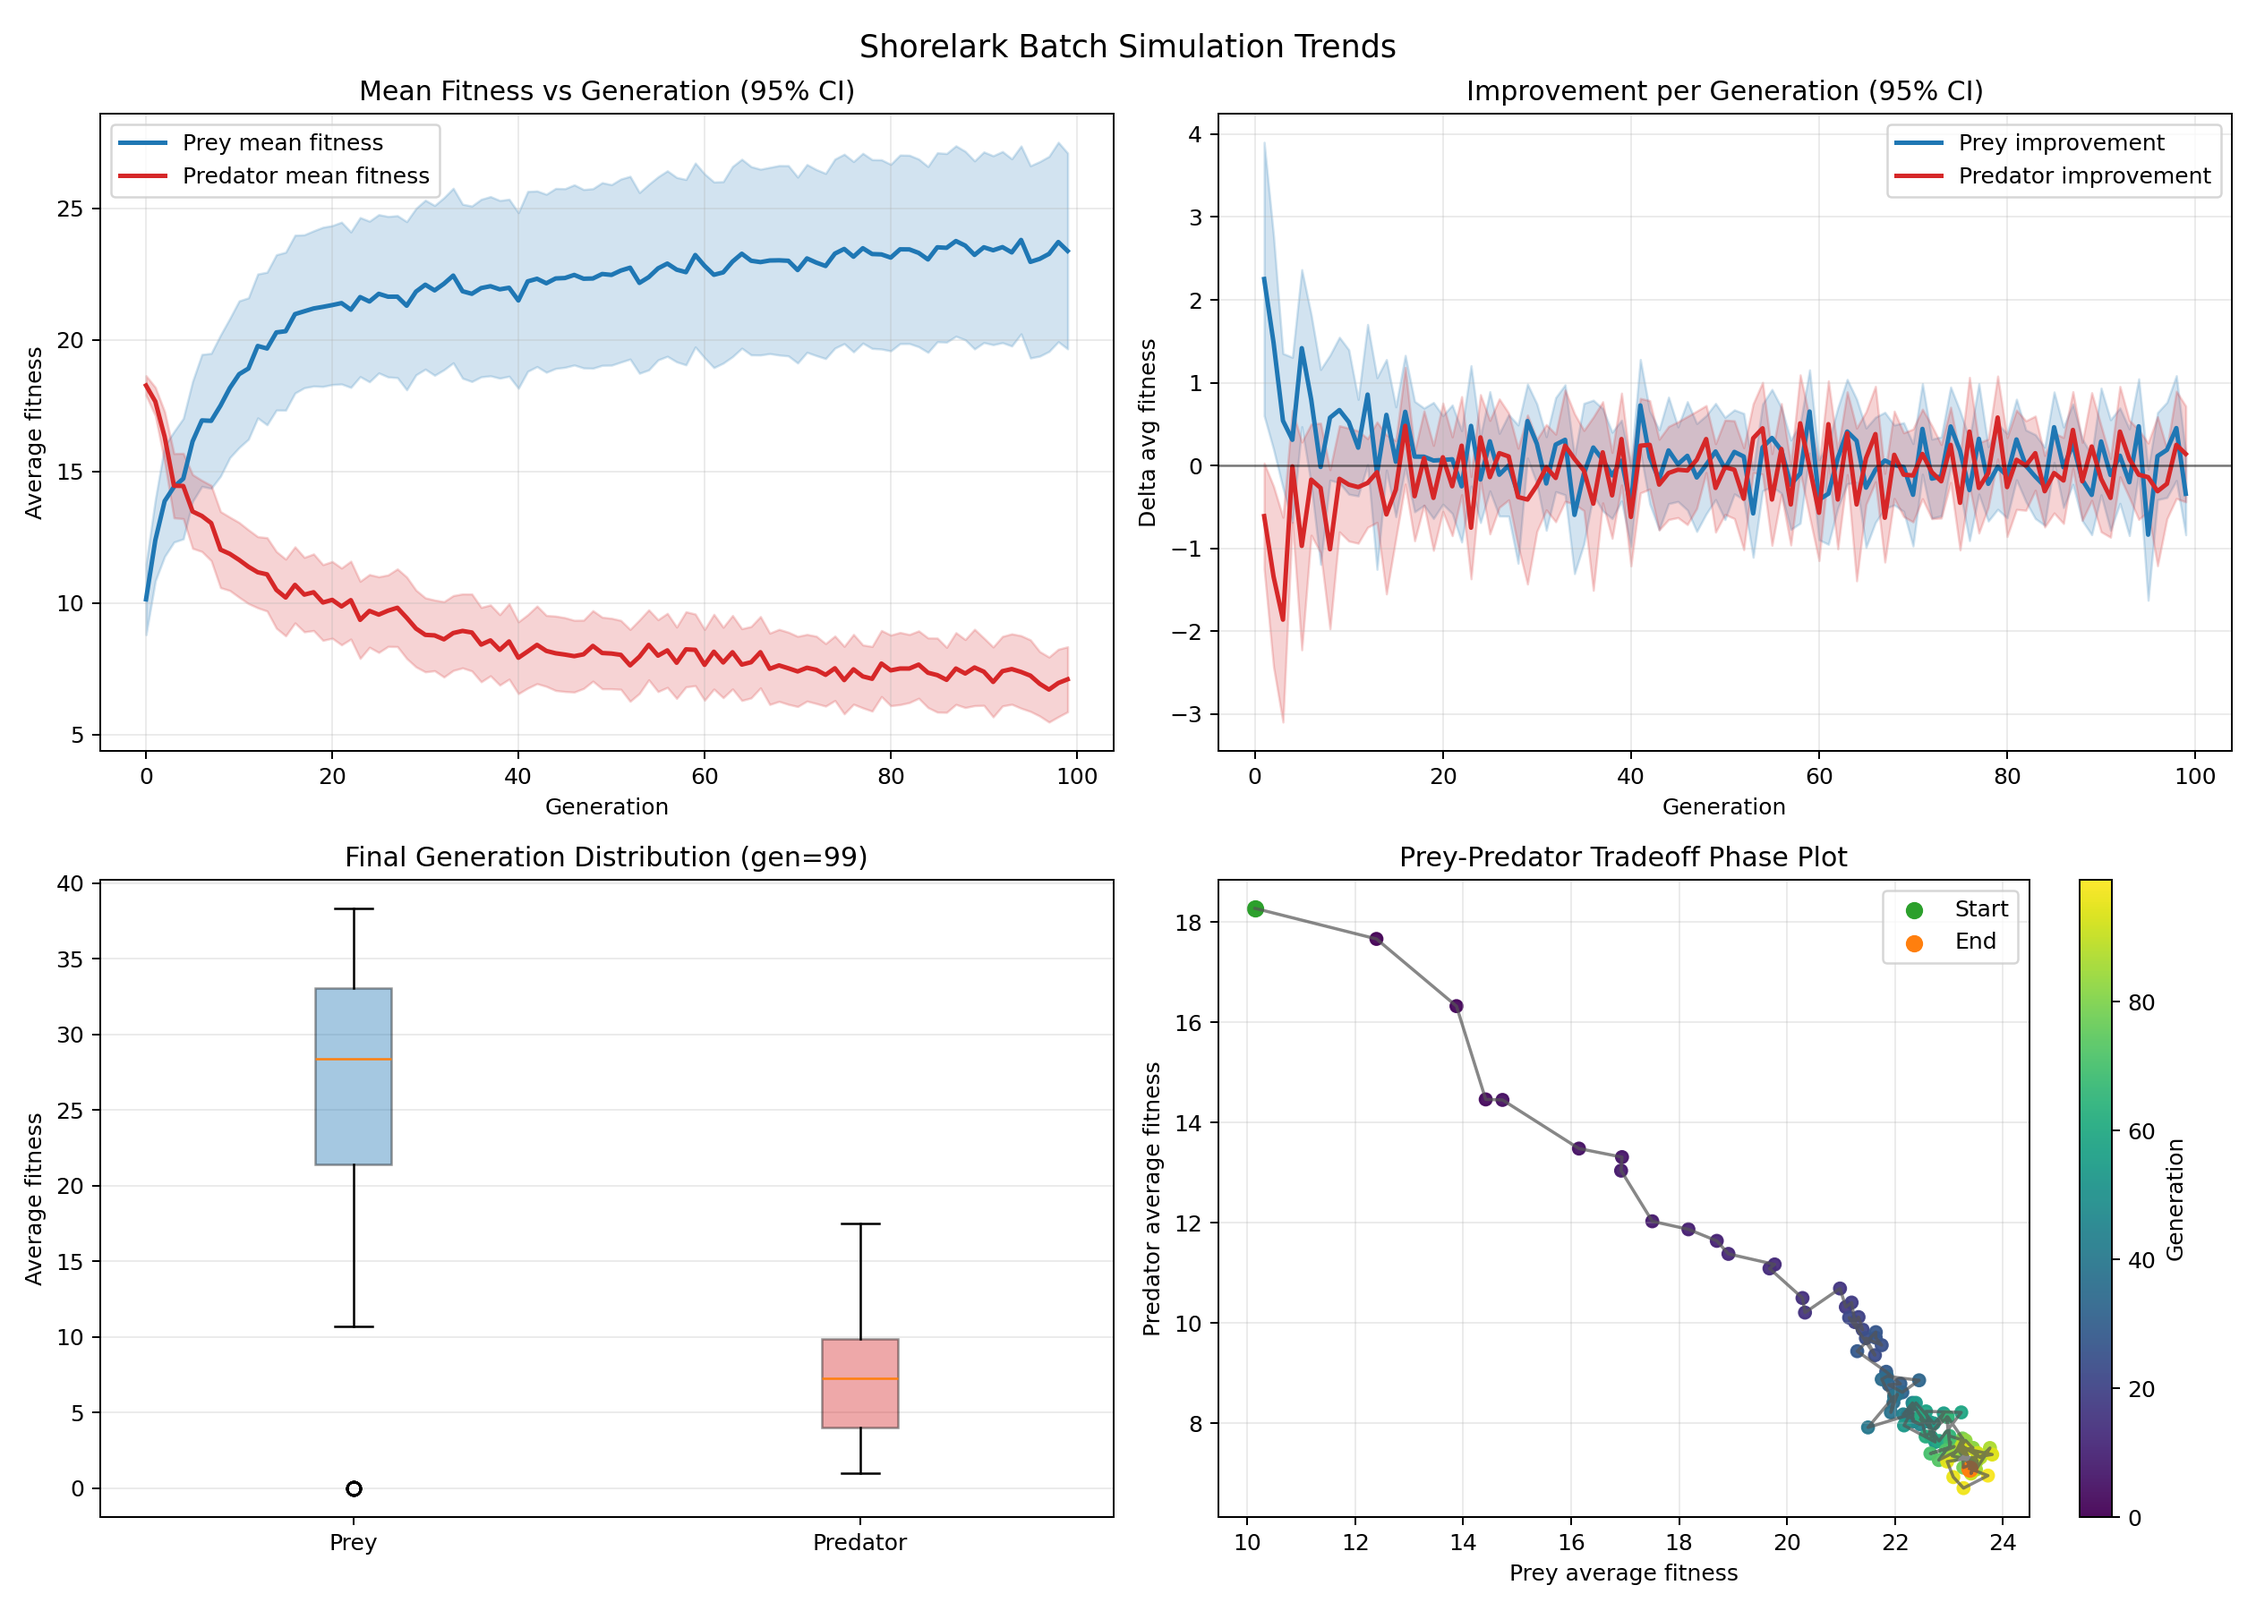
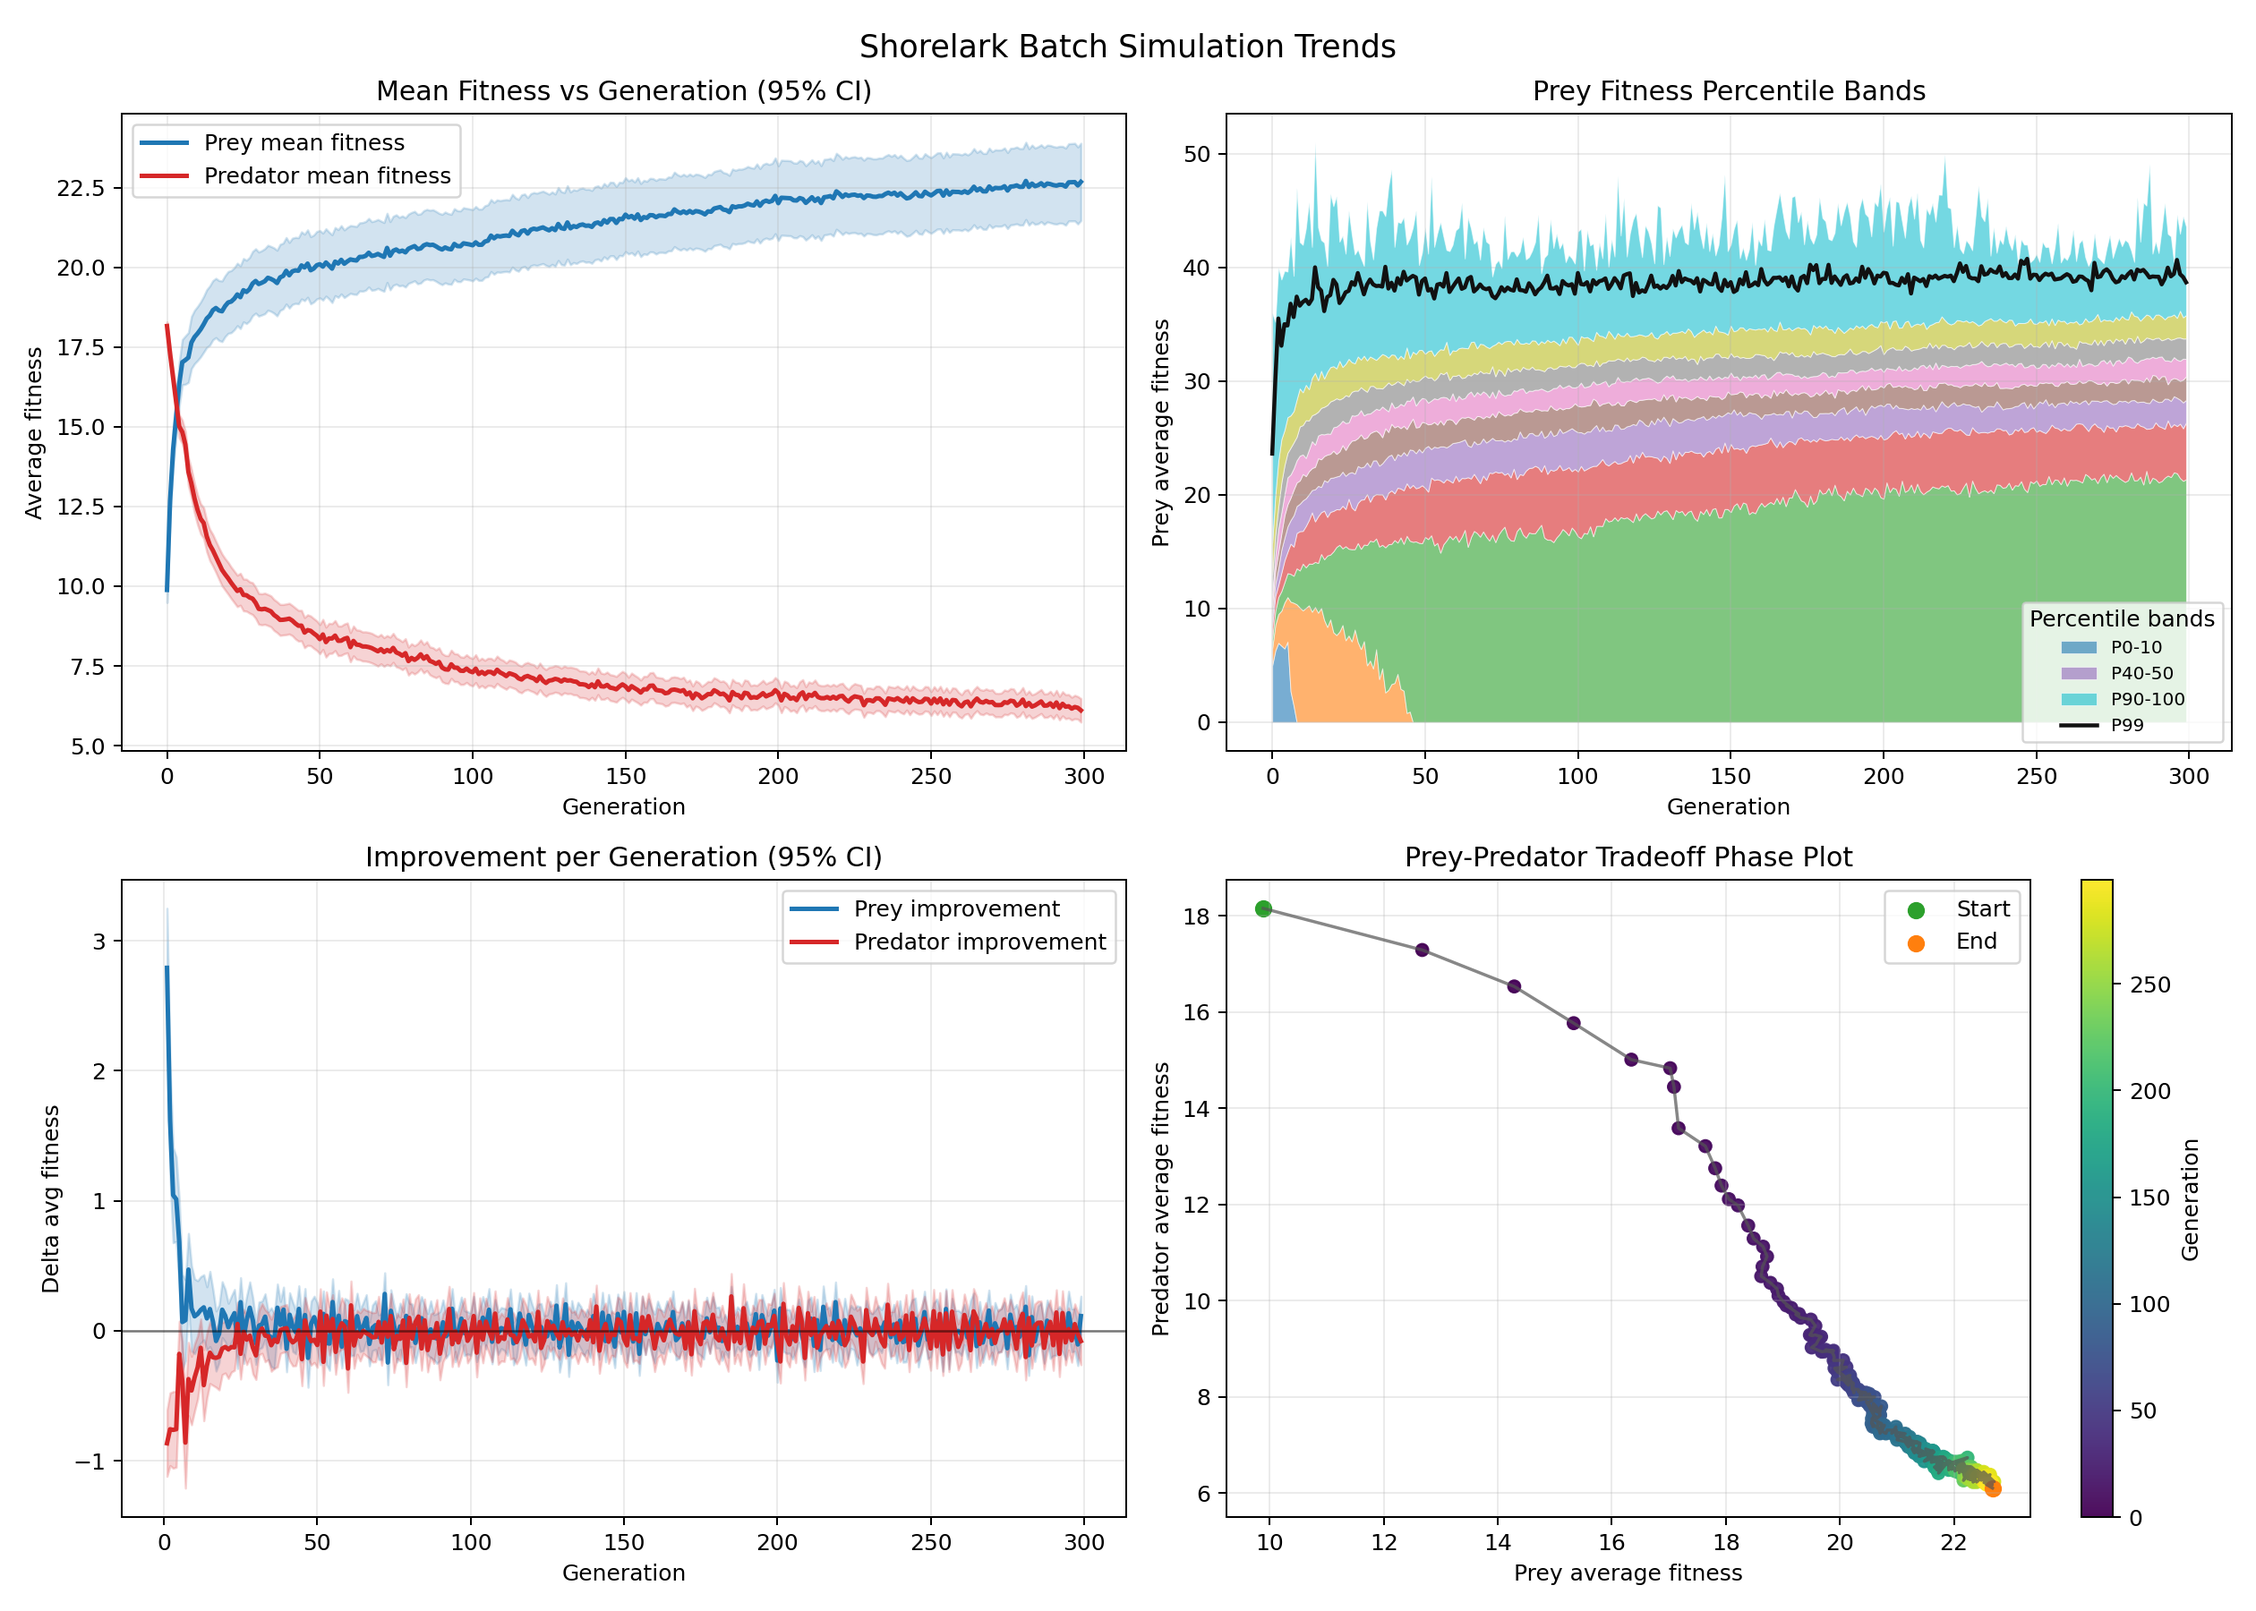
Replace final-distribution panel with decile percentile bands + P99

diff --git a/scripts/plot_batch_results.py b/scripts/plot_batch_results.py
@@ -39,6 +39,50 @@ def add_improvement_plot(ax, df: pd.DataFrame, value_col: str, label: str, color
     add_mean_and_ci(ax, grouped, label, color)
 
 
+def add_decile_percentile_band(
+    ax, df: pd.DataFrame, value_col: str, title: str, cmap_name: str = "viridis"
+):
+    quantile_levels = np.linspace(0.0, 1.0, 11)
+    grouped = df.groupby("generation")[value_col]
+    quantiles = grouped.quantile(quantile_levels).unstack(level=1).sort_index()
+
+    x = quantiles.index.to_numpy()
+    cmap = plt.get_cmap(cmap_name, 10)
+
+    shown_labels = {0: "P0-10", 4: "P40-50", 9: "P90-100"}
+    for i in range(10):
+        low = quantiles.iloc[:, i].to_numpy()
+        high = quantiles.iloc[:, i + 1].to_numpy()
+        label = shown_labels.get(i, "_nolegend_")
+        ax.fill_between(
+            x,
+            low,
+            high,
+            color=cmap(i),
+            alpha=0.6,
+            linewidth=0.4,
+            edgecolor="white",
+            label=label,
+        )
+
+    # Overlay upper-tail line to show extreme-run behavior without adding more bands.
+    p99 = grouped.quantile(0.99).sort_index().to_numpy()
+    ax.plot(
+        x,
+        p99,
+        color="#111111",
+        linewidth=1.8,
+        label="P99",
+        zorder=5,
+    )
+
+    ax.set_title(title)
+    ax.set_xlabel("Generation")
+    ax.set_ylabel("Prey average fitness")
+    ax.grid(alpha=0.25)
+    ax.legend(fontsize=8, loc="lower right", title="Percentile bands")
+
+
 def main():
     parser = argparse.ArgumentParser(
         description="Visualize batch genetic algorithm results."
@@ -93,31 +137,24 @@ def main():
     ax1.legend()
     ax1.grid(alpha=0.25)
 
-    add_improvement_plot(ax2, df, "prey_avg_fitness", "Prey improvement", "#1f77b4")
-    add_improvement_plot(
-        ax2, df, "predator_avg_fitness", "Predator improvement", "#d62728"
+    add_decile_percentile_band(
+        ax2,
+        df,
+        "prey_avg_fitness",
+        title="Prey Fitness Percentile Bands",
+        cmap_name="tab10",
     )
-    ax2.axhline(0.0, color="black", linewidth=1.0, alpha=0.5)
-    ax2.set_title("Improvement per Generation (95% CI)")
-    ax2.set_xlabel("Generation")
-    ax2.set_ylabel("Delta avg fitness")
-    ax2.legend()
-    ax2.grid(alpha=0.25)
 
-    final_gen = df["generation"].max()
-    final_df = df[df["generation"] == final_gen]
-    box_data = [
-        final_df["prey_avg_fitness"].to_numpy(),
-        final_df["predator_avg_fitness"].to_numpy(),
-    ]
-    box = ax3.boxplot(box_data, tick_labels=["Prey", "Predator"], patch_artist=True)
-    box["boxes"][0].set_facecolor("#1f77b4")
-    box["boxes"][0].set_alpha(0.4)
-    box["boxes"][1].set_facecolor("#d62728")
-    box["boxes"][1].set_alpha(0.4)
-    ax3.set_title(f"Final Generation Distribution (gen={int(final_gen)})")
-    ax3.set_ylabel("Average fitness")
-    ax3.grid(alpha=0.25, axis="y")
+    add_improvement_plot(ax3, df, "prey_avg_fitness", "Prey improvement", "#1f77b4")
+    add_improvement_plot(
+        ax3, df, "predator_avg_fitness", "Predator improvement", "#d62728"
+    )
+    ax3.axhline(0.0, color="black", linewidth=1.0, alpha=0.5)
+    ax3.set_title("Improvement per Generation (95% CI)")
+    ax3.set_xlabel("Generation")
+    ax3.set_ylabel("Delta avg fitness")
+    ax3.legend()
+    ax3.grid(alpha=0.25)
 
     phase = (
         df.groupby("generation", as_index=False)[

diff --git a/README.md b/README.md
@@ -46,11 +46,11 @@ python3 scripts/plot_batch_results.py results.csv --out batch_trends.png
 
 These plots summarize results from 500 independent training runs, each executed for 300 generations. Under the current parameters, 122 of 500 runs (24.40%) ended with complete prey die-out.
 
-![Batch Training Trends](./docs/batch_trends_big.png)
+![Batch Training Trends](./docs/batch_trends.png)
 
 - `Mean Fitness vs Generation (95% CI)`: compares fitness trends and stability across runs.
+- `Prey Fitness Percentile Bands (Deciles + P99)`: shows the full prey fitness distribution over generations as 10 percentile bands, with a 99th percentile overlay for upper-tail behavior.
 - `Improvement per Generation (95% CI)`: often shows diminishing gains after early generations.
-- `Final Generation Distribution`: summarizes end-state distribution for prey vs predators.
 - `Prey-Predator Tradeoff Phase Plot`: maps co-evolution over time by plotting mean prey fitness against mean predator fitness.
 
 ## Explanation
